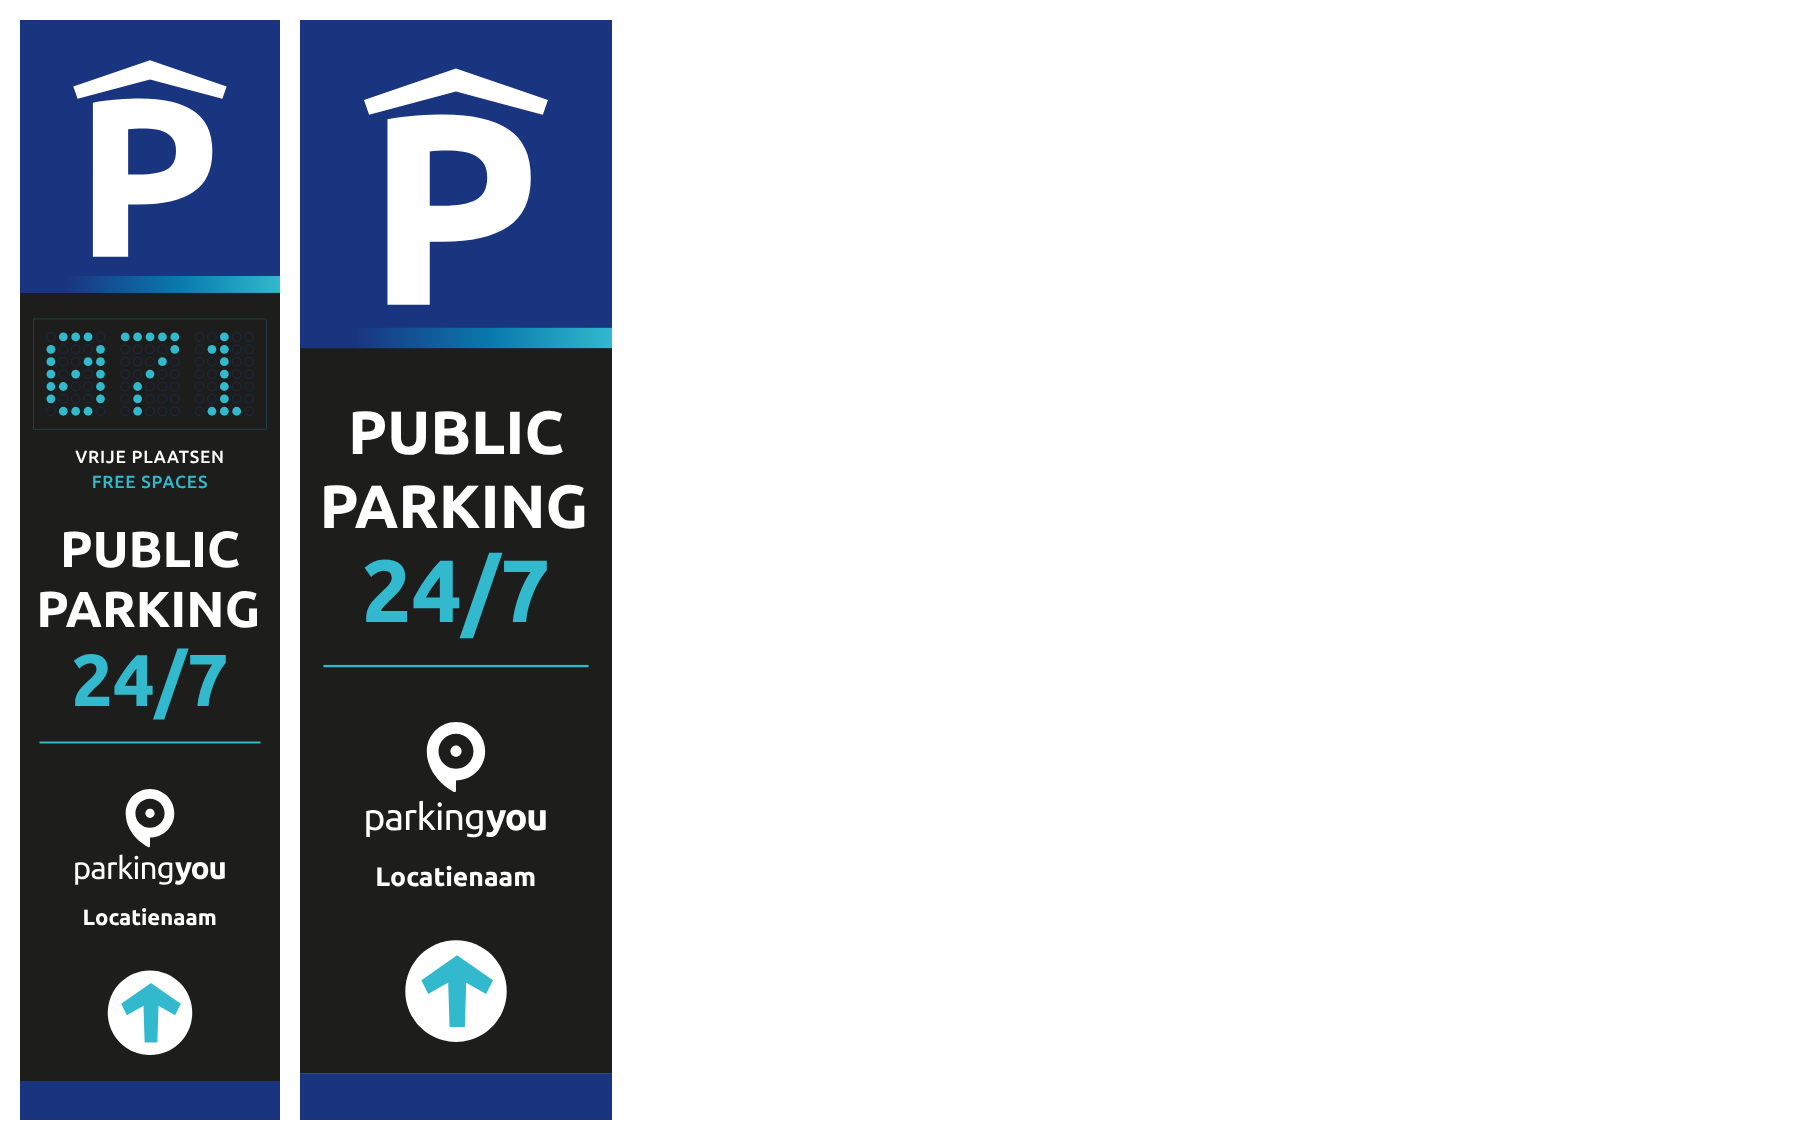
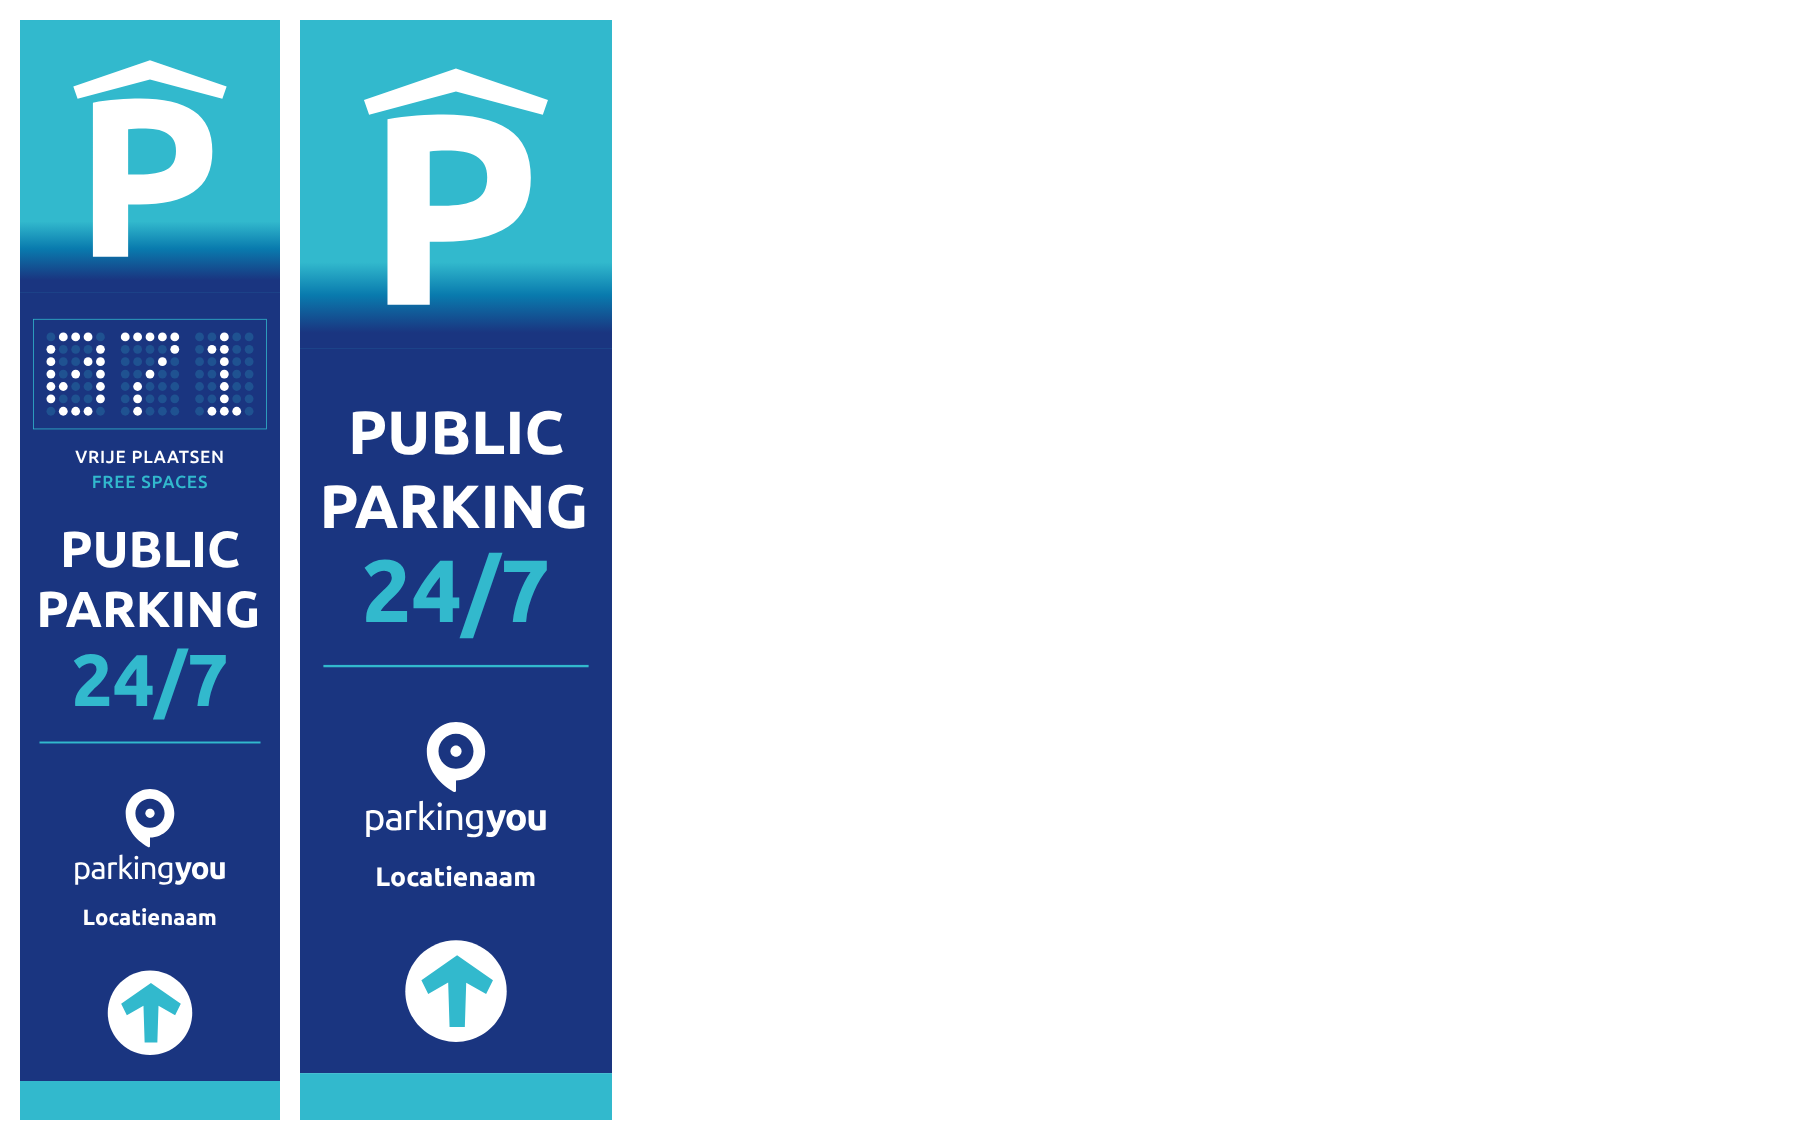
Zuil: PY-Blauw column with aqua header, no black or grey
Claude-Session: https://claude.ai/code/session_01Ut6CvVLedSD6Z6M6dqcykW

Changed region(s): [[0.0, 0.0, 0.3422, 0.9825]]

diff --git a/tools/build_zuil.py b/tools/build_zuil.py
@@ -15,11 +15,12 @@ import sys
 sys.path.insert(0, os.path.dirname(os.path.abspath(__file__)))
 from pyassets.compose import ROOT, Doc, text_width  # noqa: E402
 
-NAVY, AQUA, BLACK, WHITE = "#1A3580", "#32B9CD", "#1D1D1B", "#FFFFFF"
-LED_ON, LED_OFF = AQUA, NAVY  # lit dots PY-Aqua, unlit dots PY-Blauw outline: brand colours only
+NAVY, AQUA, WHITE = "#1A3580", "#32B9CD", "#FFFFFF"
+LED_ON, LED_OFF = WHITE, AQUA  # lit dots white, unlit dots PY-Aqua at 22 percent: brand colours only
 
 W = 400.0            # column width, as the pyloon panel
 HEADER_H = 420.0
+BAND_H = 110.0       # blauw to aqua band at the foot of the header
 PLINTH_H = 60.0
 FOOT_PAD = 40.0
 CX = W / 2
@@ -41,7 +42,7 @@ FONT = {
 
 
 def counter(d, x0, y0, w=340.0, h=160.0, digits="071", gid=None):
-    """Free-spaces counter: black bezel with an aqua hairline (as py-comp-portal-display-slot) and a dot matrix, lit dots in PY-Aqua."""
+    """Free-spaces counter: PY-Blauw bezel with an aqua hairline and a dot matrix, lit dots white, unlit dots PY-Aqua at 22 percent."""
     n = len(digits)
     cols = n * 5 + (n - 1)
     pitch = min((w - 36) / cols, (h - 36) / 7)
@@ -49,14 +50,14 @@ def counter(d, x0, y0, w=340.0, h=160.0, digits="071", gid=None):
     gx = x0 + (w - (cols - 1) * pitch) / 2
     gy = y0 + (h - 6 * pitch) / 2
     with d.group(gid or "counter"):
-        d.rect(x0, y0, x0 + w, y0 + h, fill=BLACK, gid="bezel")
-        d.rect(x0 + 0.157, y0 + 0.157, x0 + w - 0.157, y0 + h - 0.157, fill="none", stroke=AQUA, sw=0.314, gid="bezel-line")
+        d.rect(x0, y0, x0 + w, y0 + h, fill=NAVY, gid="bezel")
+        d.rect(x0 + 0.6, y0 + 0.6, x0 + w - 0.6, y0 + h - 0.6, fill="none", stroke=AQUA, sw=1.2, gid="bezel-line")
         with d.group("dots-off"):
             for i, ch in enumerate(digits):
                 for ry, row in enumerate(FONT[ch]):
                     for cx_, bit in enumerate(row):
                         if bit == "0":
-                            d.circle(gx + (i * 6 + cx_) * pitch, gy + ry * pitch, r, fill="none", stroke=LED_OFF, sw=0.7)
+                            d.circle(gx + (i * 6 + cx_) * pitch, gy + ry * pitch, r, fill=LED_OFF, opacity=0.22)
         with d.group("dots-on", data_variable="free-spaces"):
             for i, ch in enumerate(digits):
                 for ry, row in enumerate(FONT[ch]):
@@ -78,17 +79,17 @@ def zuil(with_counter=True, digits="071", H=None):
     H = H or 2400.0   # first pass with a long column; the second pass trims it to the content
     d = Doc(pid, "Informatiezuil Public parking 24/7" + ("" if with_counter else ", zonder teller"), tight=True)
     d.defs["py-zuil-verloop"] = (
-        '<linearGradient id="py-zuil-verloop" gradientUnits="userSpaceOnUse" x1="0" y1="0" x2="%g" y2="0">'
+        '<linearGradient id="py-zuil-verloop" gradientUnits="userSpaceOnUse" x1="0" y1="%g" x2="0" y2="%g">'
         '<stop offset="0" stop-color="#1A3580"/><stop offset="0.18" stop-color="#1A3580"/>'
-        '<stop offset="0.62" stop-color="#097BAE"/><stop offset="1" stop-color="#32B9CD"/></linearGradient>' % W)
-    d.uses("py-tok-color-blauw", "py-tok-color-aqua", "py-tok-color-zwart", "py-tok-color-wit",
+        '<stop offset="0.62" stop-color="#097BAE"/><stop offset="1" stop-color="#32B9CD"/></linearGradient>' % (HEADER_H, HEADER_H - BAND_H))
+    d.uses("py-tok-color-blauw", "py-tok-color-aqua", "py-tok-color-wit",
            "py-tok-gradient-verloop", "py-tok-type-ubuntu-bold", "py-tok-type-ubuntu-medium")
 
     with d.group("body"):
-        d.rect(0, 0, W, H - PLINTH_H, fill=BLACK, gid="column")
+        d.rect(0, 0, W, H - PLINTH_H, fill=NAVY, gid="column")
     with d.group("header"):
-        d.rect(0, 0, W, HEADER_H, fill=NAVY, gid="header-navy")
-        d.rect(0, HEADER_H - 26, W, HEADER_H, fill="url(#py-zuil-verloop)", gid="header-verloop")
+        d.rect(0, 0, W, HEADER_H, fill=AQUA, gid="header-aqua")
+        d.rect(0, HEADER_H - BAND_H, W, HEADER_H, fill="url(#py-zuil-verloop)", gid="header-verloop")
         d.place("py-atom-symbol-p-roof", CX, 62, w=236, anchor="tc")      # white P with roof, 236 x 303
     y = HEADER_H + 40
 
@@ -125,7 +126,7 @@ def zuil(with_counter=True, digits="071", H=None):
     d.end_y = ay + 130 + FOOT_PAD + PLINTH_H
 
     with d.group("plinth"):
-        d.rect(0, H - PLINTH_H, W, H, fill=NAVY, gid="plinth-plate")
+        d.rect(0, H - PLINTH_H, W, H, fill=AQUA, gid="plinth-plate")
     if H0 is None:
         return zuil(with_counter, digits, H=round(d.end_y))
     return d
@@ -151,16 +152,15 @@ def main():
     meta = {
         "py-comp-led-counter": dict(
             name_nl="LED teller vrije plaatsen", category="display", variables=["free-spaces"],
-            notes="Dot matrix counter (5 x 7 dots per digit, three digits shown: 071) in a black bezel with an aqua hairline, same bezel as "
-                  "py-comp-portal-display-slot. REBUILT: new construction (no source drawing); lit dots PY-Aqua, unlit dots as PY-Blauw outline "
+            notes="Dot matrix counter (5 x 7 dots per digit, three digits shown: 071) in a PY-Blauw bezel with an aqua hairline. REBUILT: new construction (no source drawing); lit dots white, unlit dots PY-Aqua at 22 percent "
                   "(brand colours only; the portal displays in the handbook use LED green and red). Variable free-spaces is the digit string."),
         "py-prod-zuil-publiek-parkeren": dict(
             name_nl="Informatiezuil Public parking 24/7, met teller", category="zuil",
             variables=["free-spaces", "headline", "location name", "arrow direction", "counter labels"],
             notes="NEW DESIGN (not in the handbook), modelled on a street pylon with a P header, a free-spaces counter and the line PUBLIC PARKING 24/7. "
-                  "Front elevation, 400 x 1750 mm (width as the info pylon panel), black column (PY-Zwart), navy header with white P-roof symbol and a "
-                  "blauw to aqua band, counter, headline in Ubuntu Bold (24/7 in PY-Aqua), aqua divider, white stacked logo with location name, "
-                  "direction arrow, PY-Blauw plinth of 60 mm. Dimensions and the plinth are a proposal; no material, post or foundation drawing. "
+                  "Front elevation, 400 x 1750 mm (width as the info pylon panel), PY-Blauw column, aqua header with white P-roof symbol and a "
+                  "aqua to blauw band, counter, headline in Ubuntu Bold (24/7 in PY-Aqua), aqua divider, white stacked logo with location name, "
+                  "direction arrow, PY-Aqua plinth of 60 mm. Dimensions and the plinth are a proposal; no material, post or foundation drawing. "
                   "Text is live Ubuntu; the counter digits are dots (variable free-spaces)."),
         "py-prod-zuil-publiek-parkeren-zonder-teller": dict(
             name_nl="Informatiezuil Public parking 24/7, zonder teller", category="zuil",
